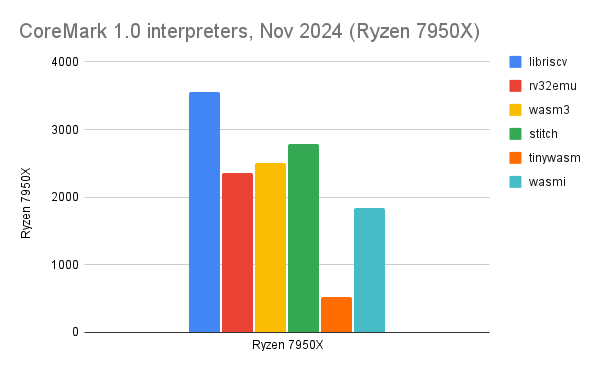
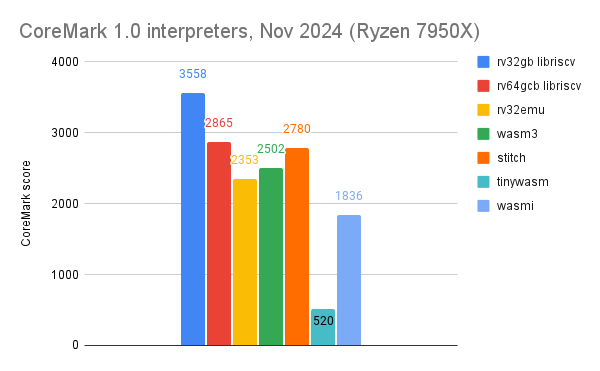
Add rv64gcb CoreMark score

diff --git a/docs/performance/performance.md b/docs/performance/performance.md
@@ -16,7 +16,7 @@ _libriscv_ regularly out-performs other interpreters.
 
 ![STREAM benchmark](/img/performance/stream2.png)
 
-I benchmarked interpreted [libriscv](https://github.com/libriscv/libriscv) vs [wasm3](https://github.com/wasm3/wasm3) on two of my machines.
+I benchmarked interpreted [libriscv](https://github.com/libriscv/libriscv) vs [wasm3](https://github.com/wasm3/wasm3) on two of my machines. The CoreMark values are from running it in libriscv as well as the wasmi benchmark suite. I added the 64-bit CoreMark value from rv64gcb that isn't very flattering, however for many it's the default when using libriscv.
 
 [Others have also benchmarked](https://github.com/sysprog21/rv32emu/issues/288) _libriscv_, and found it to be fast. Although likely with C-extension enabled, which is not the fastest interpreter mode in _libriscv_.
 
